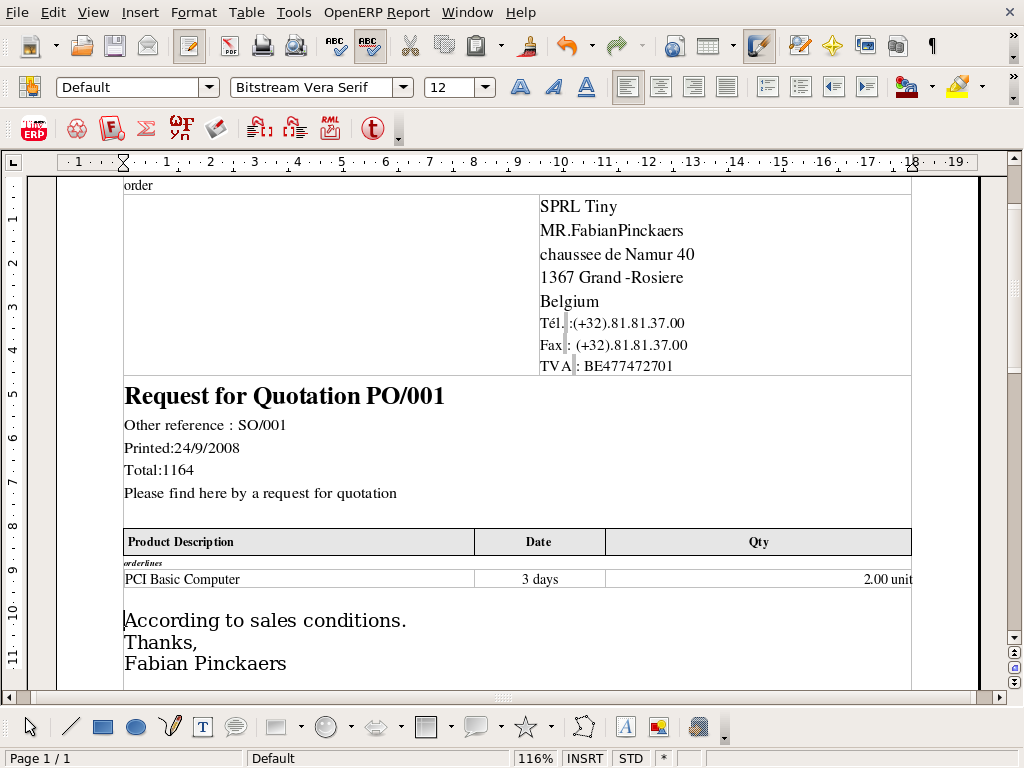
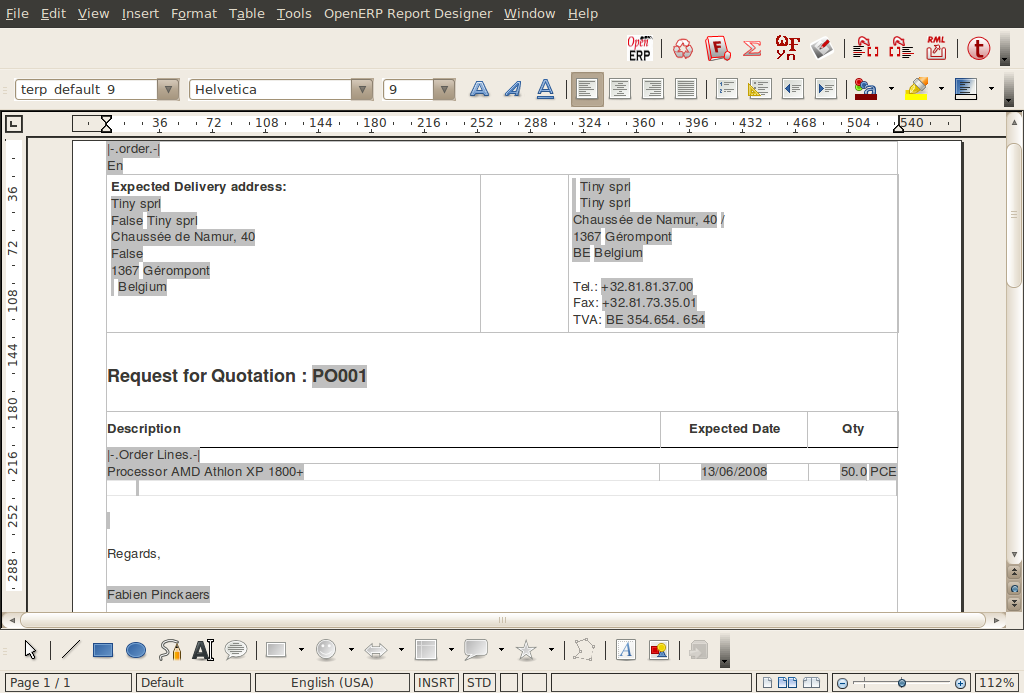
[IMP]: System Administration and Implementation > Configuration & Administration > Configuring reports > Managing document templates with OpenOffice.org > Modifying a report

Changed region(s): [[0.0, 0.0, 1.0, 1.0], [0.6562, 0.6061, 0.7812, 0.6364], [0.8125, 0.6061, 0.8438, 0.6364]]

diff --git a/8/8_20_Config/8_20_Config_reports.rst b/8/8_20_Config/8_20_Config_reports.rst
@@ -25,7 +25,7 @@ Managing statistical reports
 Many reports are configured in advance in Open ERP. You can find them in the :menuselection:`Reporting` sub-menus
 under each main menu entry.
 
-Modeling a new report
+Modelling a new report
 ^^^^^^^^^^^^^^^^^^^^^
 
 .. index::
@@ -223,7 +223,7 @@ Connecting OpenOffice.org to Open ERP
 
 Select :menuselection:`OpenERP Report Designer --> Server parameters` in the top menu of OpenOffice.org
 Writer. You can then enter your connection parameters to the Open ERP server. You must select a
-database in which you have already installed the module :mod:`sale`. A message
+database in which you have already installed the module :mod:`purchase`. A message
 appears if you have made a successful connection.
 
 .. index::
@@ -239,11 +239,11 @@ The report editor lets you:
 * create new reports for the selected object.
 
 To modify an existing report, select :menuselection:`OpenERP Report Designer --> Modify Existing Report`.
-Choose the report:menuselection:`Request for Quotation` in the :guilabel:`Modify Existing Report`
-dialog box and then click :guilabel:`Save to Temp Directory`.
+Choose the report :guilabel:`Purchase Order - Request for Quotation` in the :guilabel:`Modify Existing Report`
+dialog box and then click :guilabel:`Open Report`.
 
 .. figure::  images/openoffice_quotation.png
-   :scale: 75
+   :scale: 50
    :align: center
 
    *Modifying a document template*
@@ -298,8 +298,8 @@ From the Open ERP toolbar in OpenOffice.org it is possible to:
 .. *Technical Name*  *Report Name* \ ``Sale Order Mod``\
 .. *Corporate Header*  *Send Report to Server*
 
-You can check the result in Open ERP using the menu :menuselection:`Sales Management --> Sales
-Orders --> All Orders`.
+You can check the result in Open ERP using the menu :menuselection:`Purchases --> Purchase Management --> Requests
+for Quotation`.
 
 .. index::
    single: report; new
